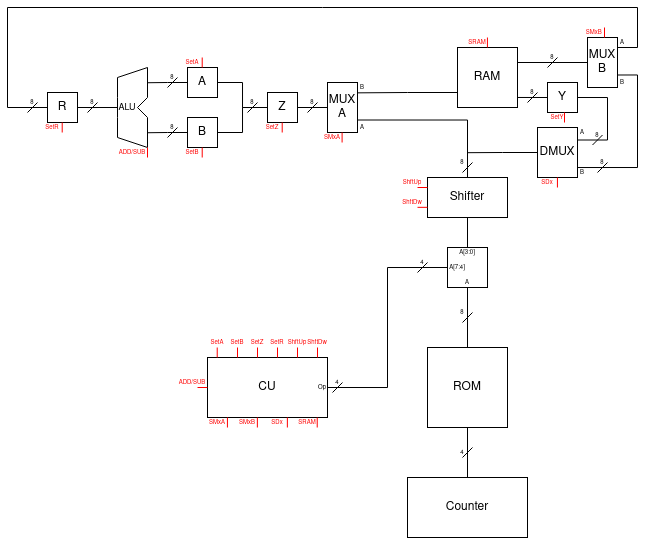
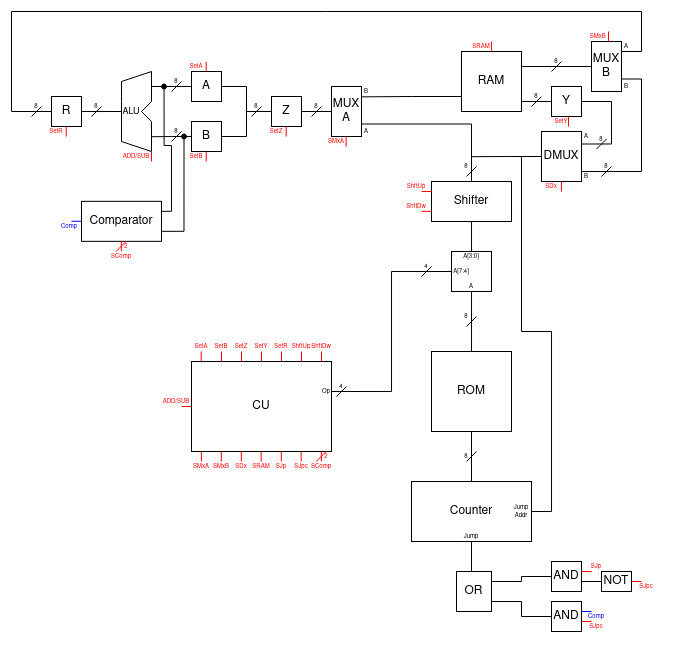
Updated diagram, Readme and Files location

diff --git a/Assembler/assembler.c b/Assembler/assembler.c
@@ -1,3 +1,10 @@
+// --------------------- Simple 8-bit CPU Verilog Project ---------------------
+//	ASSEMBLER PROGRAM
+// 	Assembler source code for machine code generating testing the Simple 8-bit CPU
+//
+//	viCppDev - February 2021
+// ----------------------------------------------------------------------------
+
 #include <stdio.h>
 #include <stdlib.h>
 
@@ -32,6 +39,17 @@ int getParam(char *line){
     else return -1;
 }
 
+int paramNeed(int op){
+    int opsWithParam[] = {0x5,0x6};
+    int i;
+
+    for(i = 0; opsWithParam[i] != '\0'; i++){
+        if(opsWithParam[i] == (int)op){
+            return 1;
+        }            
+    }
+    return -1;
+}
 
 
 
@@ -53,10 +71,12 @@ int main(int argc, char *argv[]){
         fout = fopen("a.mem", "w");
 
     for(i = 0; i < MAX_MEMORY_SIZE; i++){
-        if(fscanf(fin, "%s", buff) == 1){      
+        if(fscanf(fin, "%s", buff) == 1){  
+            //printf( "%s\n", buff); 
+
             op = getOpCmd(buff);
             if(getOpCmd(buff) != -1){
-                if(op == 0x5 || op == 0x6){
+                if(paramNeed(op) == 1){
                     fscanf(fin, "%s", buff);
                     param = getParam(buff);
                     

diff --git a/README.md b/README.md
@@ -1,6 +1,7 @@
 # Simple-8bit-CPU-Verilog
 Verilog implementation of a Simple 8-bit CPU
  - It can performe basic arithmetic operations
+ - Binary code generation with assembler (included)
  - Example: Debug version with manual execution (step by step)
  
 ### Instruction set 
@@ -17,11 +18,21 @@ Verilog implementation of a Simple 8-bit CPU
 | srn  | 1000 xxxx  | Store in RAM new value|
 | srr  | 1001 xxxx  | Store in RAM result value|
 | lzr  | 1010 xxxx  | Store register Z from RAM|
-| TBD  | 1011 xxxx  | To be defined|
-| TBD  | 1100 xxxx  | To be defined|
-| TBD  | 1101 xxxx  | To be defined|
-| TBD  | 1110 xxxx  | To be defined|
-| TBD  | 1111 xxxx  | To be defined|
+| jpi  | 1011 xxxx  | Inconditional Jump|
+| jpe  | 1100 xxxx  | Conditional Jump (if equal)|
+| jpl  | 1101 xxxx  | Conditional Jump (less than)|
+| jpm  | 1110 xxxx  | Conditional Jump (more than)|
+| NA   | 1111 xxxx  | Not used|
+
+#### Example assembler code
+```
+1. lsd 13
+2. lsu 12
+3. sta 
+```
+- Decimal parameter (max. 4 bits)
+- No comments allowed
+- Only one space between opcode and parameter, and only one new line between instructions
  
 ### DIAGRAM
  
